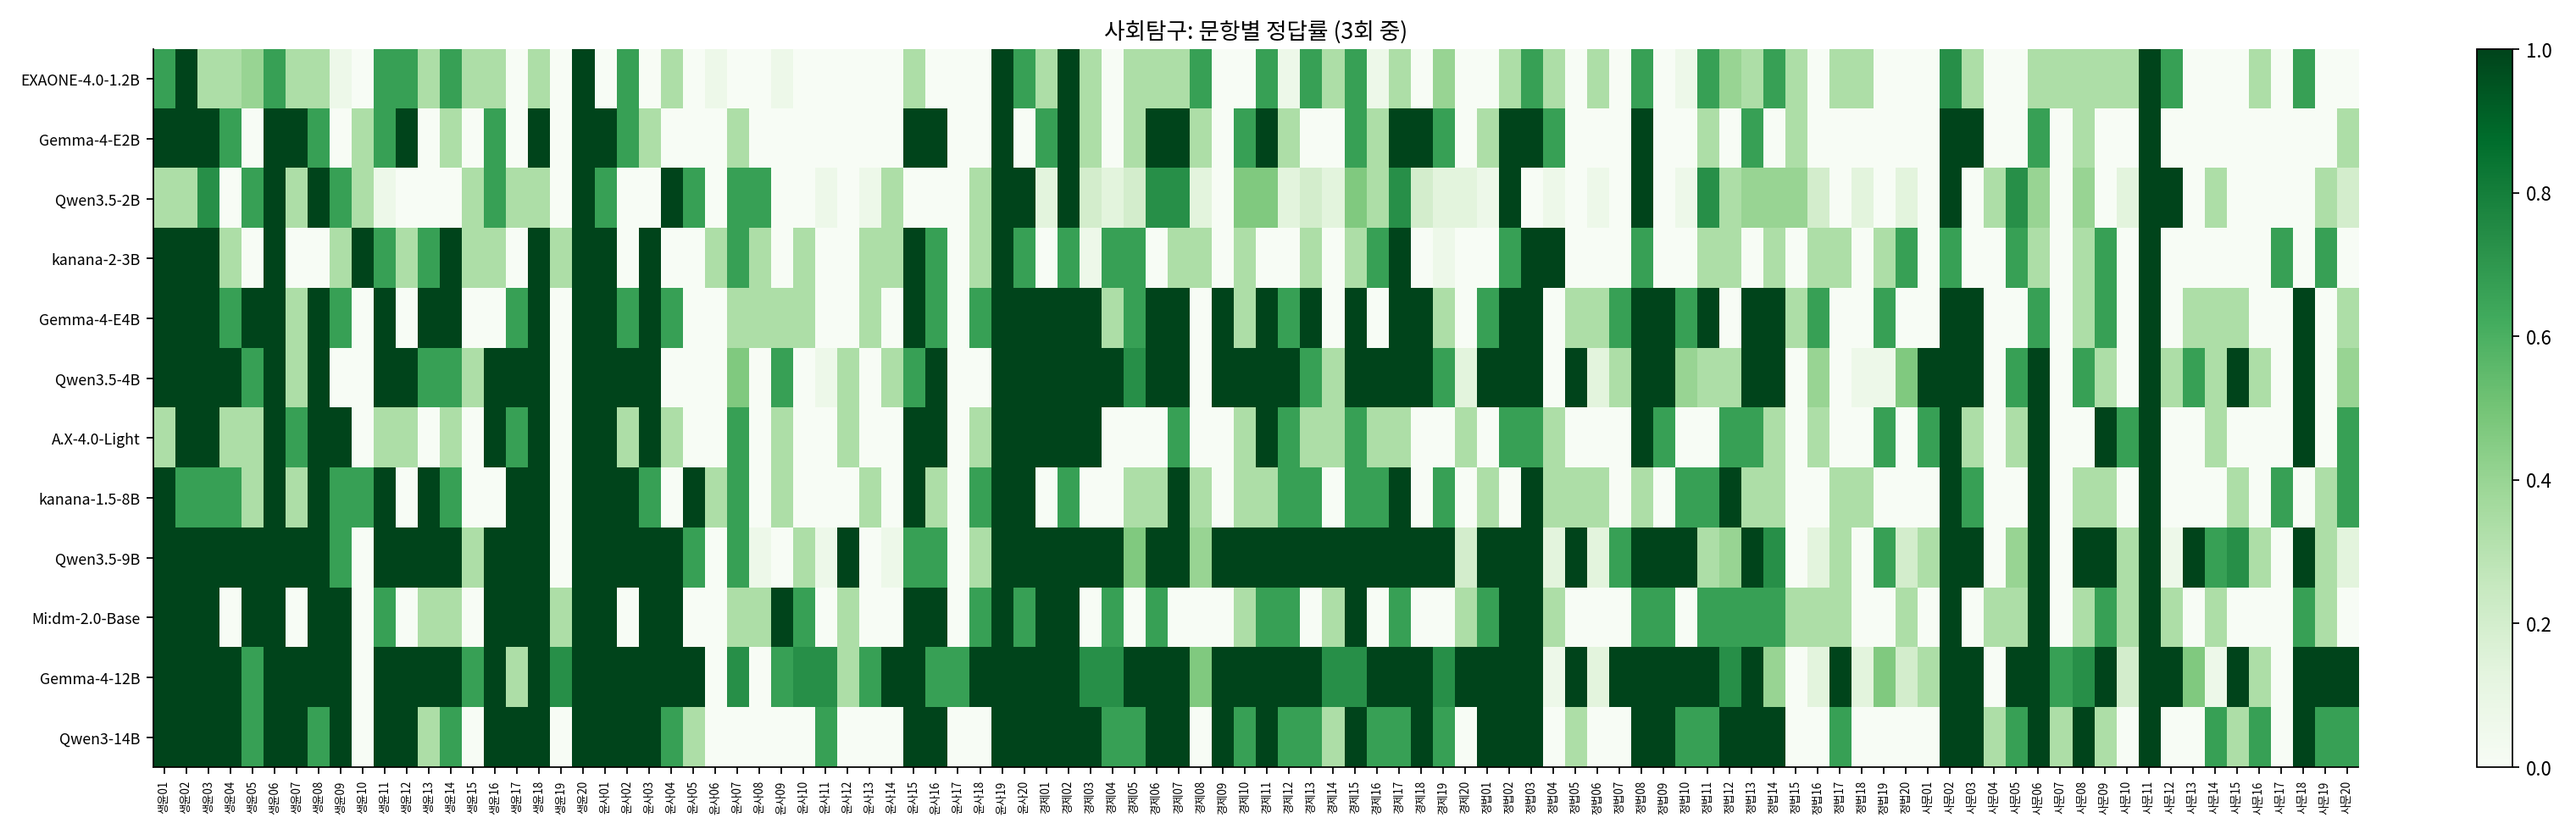
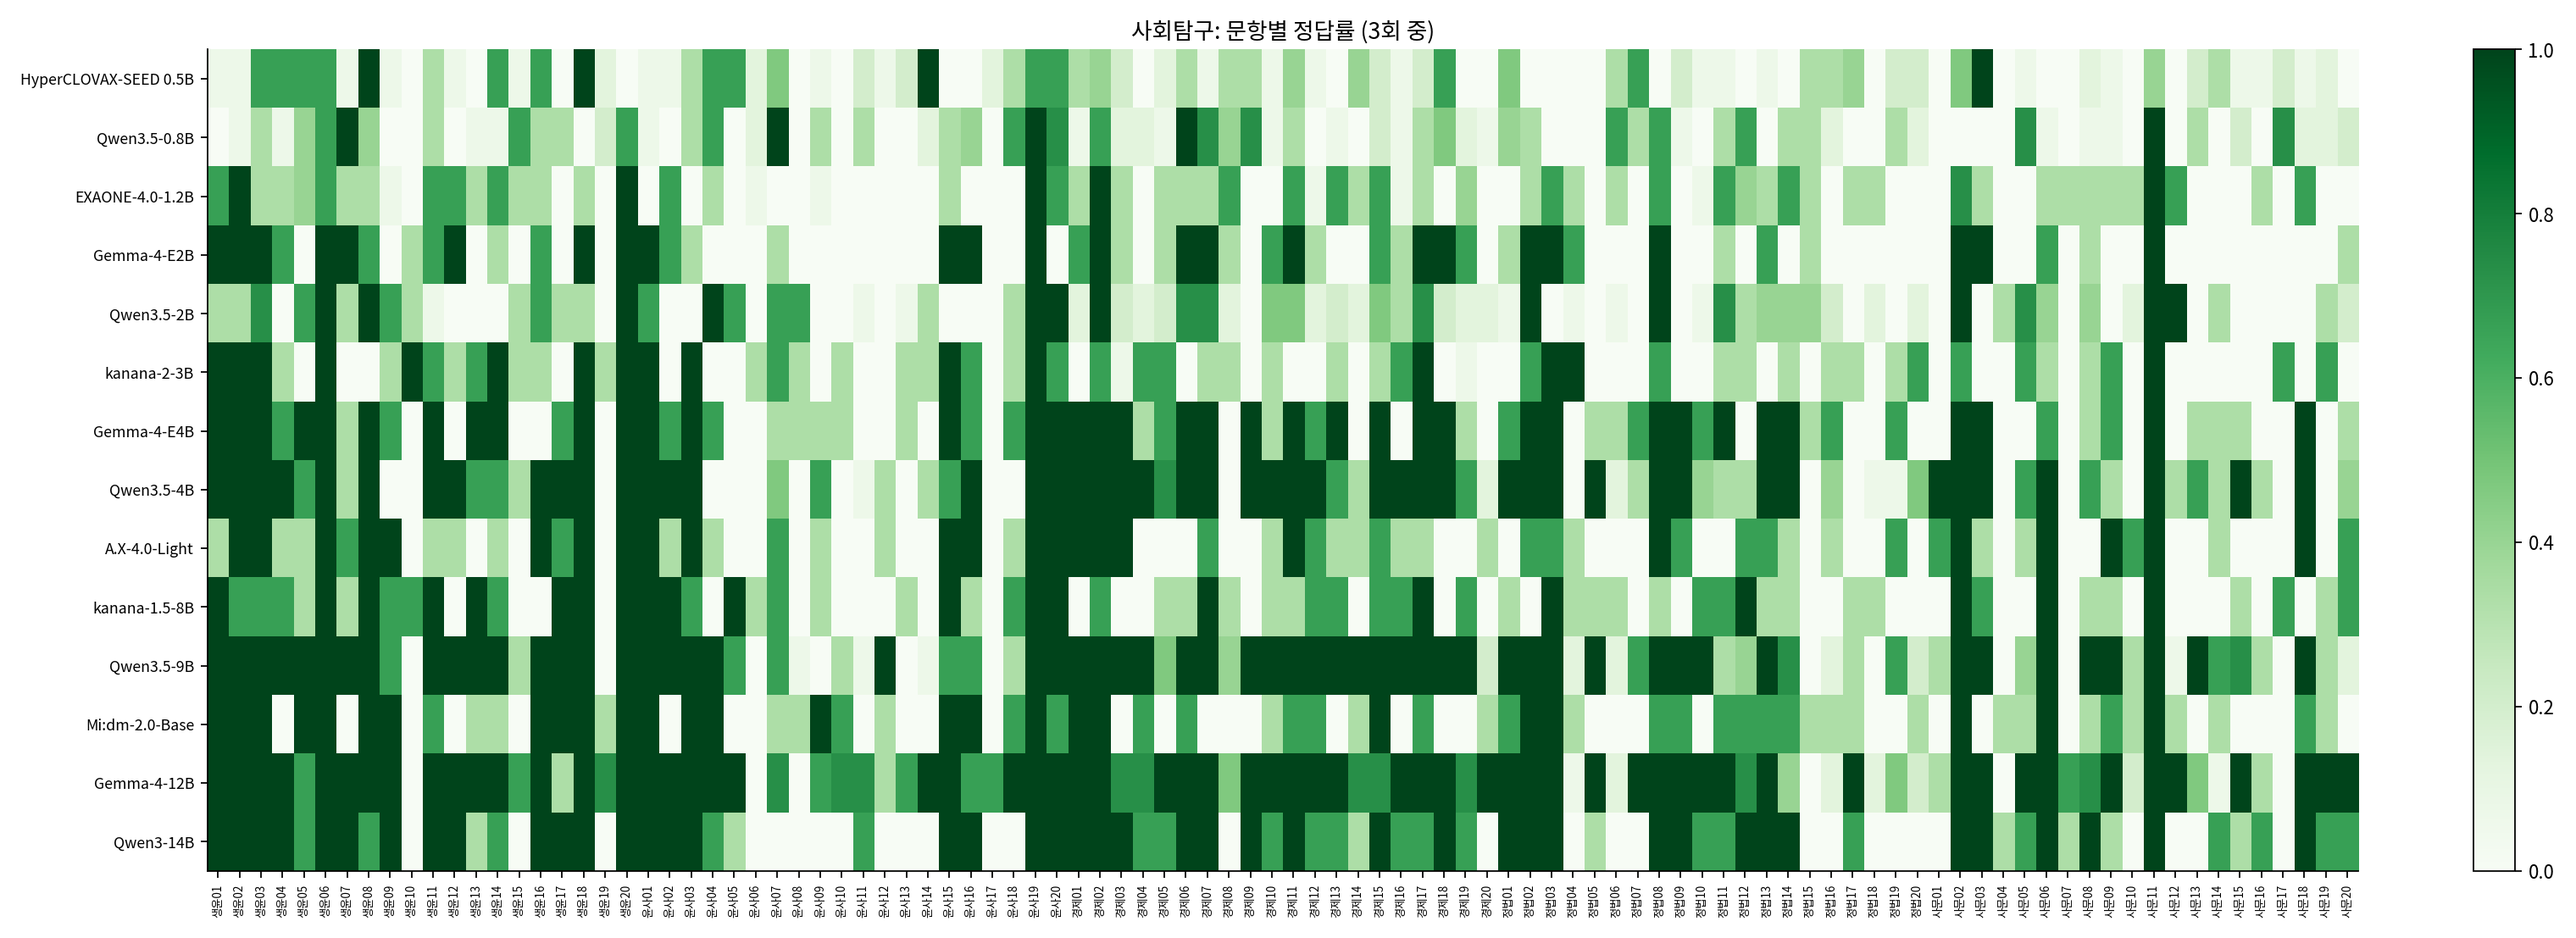
Update results (71 runs)

diff --git a/README.md b/README.md
@@ -1,6 +1,6 @@
 # 📱 폰 속 AI가 2027 수능을 풀었다
 
-**인터넷 없이 스마트폰·노트북에서 돌아가는 공개 AI 모델 14개에게 2026년 11월 19일 시험 당일 공개된 2027학년도 수능 문제를 풀게 하고 평가원 정답으로 채점했다.**
+**인터넷 없이 스마트폰·노트북에서 돌아가는 공개 AI 모델 15개에게 2026년 11월 19일 시험 당일 공개된 2027학년도 수능 문제를 풀게 하고 평가원 정답으로 채점했다.**
 
 ![기기 등급별 최고 점수](figures/hero.png)
 
@@ -13,9 +13,9 @@
 - **수학**은 작은 모델도 잘 푼다. 4B 크기의 Gemma-4-E4B가 80점을 넘었다.
 - 시험지 맨 끝의 4점 단답형 고난도 문항(공통 21·22번, 선택 29·30번)은 모델 평균 정답률이 22%, 가장 잘 푼 모델도 67%에 그쳤다.
 - **국어가 수학보다 어렵다.** 2B 이상 모델 기준으로 국어 정답률이 수학보다 평균 12%p 낮다. 2,000–4,000자 길이의 지문을 읽고 선택지 사이의 미묘한 차이를 가려내는 일이 작은 모델에게는 계산보다 어렵다.
-- **국산 모델**: HyperCLOVAX-SEED 0.5B(국어 18점, 수학 19점, 영어 28점), EXAONE-4.0-1.2B(국어 31점, 수학 75점, 영어 63점, 한국사 15점), kanana-2-3B(국어 34점, 수학 39점, 영어 74점, 한국사 33점), A.X-4.0-Light(국어 49점, 수학 56점, 영어 83점, 한국사 32점), kanana-1.5-8B(국어 45점, 수학 42점, 영어 83점, 한국사 41점), Mi:dm-2.0-Base(국어 44점, 수학 54점, 영어 82점, 한국사 46점).
+- **국산 모델**: HyperCLOVAX-SEED 0.5B(국어 18점, 수학 19점, 영어 28점, 한국사 12점), EXAONE-4.0-1.2B(국어 31점, 수학 75점, 영어 63점, 한국사 15점), kanana-2-3B(국어 34점, 수학 39점, 영어 74점, 한국사 33점), A.X-4.0-Light(국어 49점, 수학 56점, 영어 83점, 한국사 32점), kanana-1.5-8B(국어 45점, 수학 42점, 영어 83점, 한국사 41점), Mi:dm-2.0-Base(국어 44점, 수학 54점, 영어 82점, 한국사 46점), HyperCLOVAX-SEED-Think-14B(국어 78점).
 
-> 마지막 업데이트: 2026-11-20 10:01 KST. 평가가 진행되는 동안 모델 하나가 끝날 때마다 이 페이지가 자동으로 갱신된다.
+> 마지막 업데이트: 2026-11-20 10:05 KST. 평가가 진행되는 동안 모델 하나가 끝날 때마다 이 페이지가 자동으로 갱신된다.
 
 ## 왜 소형 모델인가
 
@@ -34,7 +34,7 @@
 | 보급형 스마트폰 | RAM 4–6GB | ≤1.5GB | HyperCLOVAX-SEED 0.5B, Qwen3.5-0.8B, EXAONE-4.0-1.2B, Qwen3.5-2B | 38 / 78 / 80 / 15 |
 | 중급 스마트폰 | RAM 8GB | 1.5–3.2GB | Gemma-4-E2B, kanana-2-3B, Gemma-4-E4B, Qwen3.5-4B | 77 / 90 / 93 / 37 |
 | 플래그십 스마트폰 | RAM 12–16GB | 3.2–6GB | A.X-4.0-Light, kanana-1.5-8B, Qwen3.5-9B | 88 / 93 / 91 / 41 |
-| 노트북·태블릿 | RAM 16GB 이상 | 6GB 이상 | Mi:dm-2.0-Base, Gemma-4-12B, Qwen3-14B | 92 / 93 / 94 / 46 |
+| 노트북·태블릿 | RAM 16GB 이상 | 6GB 이상 | Mi:dm-2.0-Base, Gemma-4-12B, HyperCLOVAX-SEED-Think-14B, Qwen3-14B | 92 / 93 / 94 / 46 |
 
 <sub>주의: 이 표는 메모리 기준 추정치다. 이번 평가는 압축하지 않은 원래 정밀도로 진행했으므로, 기기에서 4비트로 돌리면 점수가 조금 낮아질 수 있다. 또 스마트폰의 생성 속도는 초당 수~수십 토큰 수준이라, 추론 모드 모델이 한 문항에 수천~1만 토큰을 쓰면 문항당 수 분이 걸린다. 정해진 시험 시간 안에 실제로 풀 수 있는지는 속도까지 함께 봐야 한다.</sub>
 
@@ -70,10 +70,6 @@
 
 ![가장 어려운 15문항](figures/hardest_items.png)
 
-**모든 모델이 3회 모두 틀린 문항**: `math-calc-30`, `math-common-21`
-
-**모든 모델이 3회 모두 맞힌 문항**: `eng-all-20`, `eng-all-24`
-
 ## 문항 해설
 
 대표 문항 몇 개를 골라 모델별 풀이 과정을 구체적으로 분석했다: [docs/examples.md](docs/examples.md)
@@ -88,8 +84,8 @@
 
 | 모델 | 개발사 | 매개변수(B) | 실행 가능 기기 | 국어(화작) | 국어(언매) | 수학(확통) | 수학(미적) | 수학(기하) | 영어 | 한국사 <sub>(50점)</sub> | 생활과 윤리 <sub>(50점)</sub> | 윤리와 사상 <sub>(50점)</sub> | 경제 <sub>(50점)</sub> | 정치와 법 <sub>(50점)</sub> | 사회·문화 <sub>(50점)</sub> |
 |---|---|---|---|---|---|---|---|---|---|---|---|---|---|---|---|
-| HyperCLOVAX-SEED 0.5B | 네이버 | 0.57 | 보급형 스마트폰 | 18.0 <sub>(13–25)</sub> | 18.0 <sub>(16–19)</sub> | 17.5 <sub>(14–21)</sub> | 21.3 <sub>(17–24)</sub> | 18.0 <sub>(15–21)</sub> | 28.1 <sub>(25–30)</sub> | — | — | — | — | — | — |
-| Qwen3.5-0.8B | 알리바바 | 0.8 | 보급형 스마트폰 | 24.4 <sub>(18–32)</sub> | 22.9 <sub>(20–28)</sub> | 36.5 <sub>(35–39)</sub> | 36.3 <sub>(33–39)</sub> | 33.5 <sub>(31–36)</sub> | 57.0 <sub>(53–62)</sub> | 13.3 <sub>(10–19)</sub> | — | — | — | — | — |
+| HyperCLOVAX-SEED 0.5B | 네이버 | 0.57 | 보급형 스마트폰 | 18.0 <sub>(13–25)</sub> | 18.0 <sub>(16–19)</sub> | 17.5 <sub>(14–21)</sub> | 21.3 <sub>(17–24)</sub> | 18.0 <sub>(15–21)</sub> | 28.1 <sub>(25–30)</sub> | 11.9 <sub>(8–16)</sub> | 17.5 <sub>(13–20)</sub> | 14.7 <sub>(12–19)</sub> | 10.4 <sub>(6–17)</sub> | 7.8 <sub>(6–11)</sub> | 7.8 <sub>(7–8)</sub> |
+| Qwen3.5-0.8B | 알리바바 | 0.8 | 보급형 스마트폰 | 24.4 <sub>(18–32)</sub> | 22.9 <sub>(20–28)</sub> | 36.5 <sub>(35–39)</sub> | 36.3 <sub>(33–39)</sub> | 33.5 <sub>(31–36)</sub> | 57.0 <sub>(53–62)</sub> | 13.3 <sub>(10–19)</sub> | 14.7 <sub>(9–21)</sub> | 15.7 <sub>(12–19)</sub> | 13.2 <sub>(9–16)</sub> | 12.1 <sub>(7–16)</sub> | 9.3 <sub>(7–11)</sub> |
 | EXAONE-4.0-1.2B | LG AI연구원 | 1.28 | 보급형 스마트폰 | 31.2 <sub>(28–35)</sub> | 31.5 <sub>(27–35)</sub> | 77.6 <sub>(70–82)</sub> | 72.9 <sub>(63–82)</sub> | 73.5 <sub>(71–78)</sub> | 62.7 <sub>(61–64)</sub> | 15.0 <sub>(13–18)</sub> | 19.9 <sub>(11–28)</sub> | 7.3 <sub>(3–10)</sub> | 15.1 <sub>(14–17)</sub> | 13.7 <sub>(7–21)</sub> | 13.5 <sub>(12–16)</sub> |
 | Gemma-4-E2B | 구글 | 2.0 | 중급 스마트폰 | 67.9 <sub>(64–71)</sub> | 61.2 <sub>(59–63)</sub> | 75.0 <sub>(72–80)</sub> | 73.0 <sub>(69–77)</sub> | 76.3 <sub>(76–77)</sub> | 79.9 <sub>(78–83)</sub> | 12.3 <sub>(10–14)</sub> | 28.3 <sub>(22–33)</sub> | 12.3 <sub>(9–14)</sub> | 24.0 <sub>(21–27)</sub> | 12.7 <sub>(12–14)</sub> | 10.0 <sub>(9–12)</sub> |
 | Qwen3.5-2B | 알리바바 | 2.0 | 보급형 스마트폰 | 33.6 <sub>(31–36)</sub> | 37.7 <sub>(34–42)</sub> | 64.7 <sub>(63–66)</sub> | 59.9 <sub>(56–65)</sub> | 62.1 <sub>(61–63)</sub> | 79.7 <sub>(78–81)</sub> | 11.7 <sub>(10–14)</sub> | 20.3 <sub>(17–23)</sub> | 15.7 <sub>(14–17)</sub> | 15.1 <sub>(14–17)</sub> | 12.9 <sub>(10–15)</sub> | 15.5 <sub>(12–18)</sub> |
@@ -101,6 +97,7 @@
 | Qwen3.5-9B | 알리바바 | 9.0 | 플래그십 스마트폰 | 87.7 <sub>(87–88)</sub> | 79.0 <sub>(76–81)</sub> | 90.4 <sub>(89–93)</sub> | 86.7 <sub>(82–92)</sub> | 92.8 <sub>(90–96)</sub> | 90.9 <sub>(89–93)</sub> | 28.6 <sub>(25–33)</sub> | 42.3 <sub>(40–45)</sub> | 25.8 <sub>(21–33)</sub> | 45.3 <sub>(44–48)</sub> | 28.5 <sub>(24–36)</sub> | 28.5 <sub>(25–34)</sub> |
 | Mi:dm-2.0-Base | KT | 11.5 | 노트북·태블릿 | 47.3 <sub>(46–50)</sub> | 41.0 <sub>(37–45)</sub> | 55.3 <sub>(55–56)</sub> | 50.3 <sub>(47–55)</sub> | 54.9 <sub>(51–59)</sub> | 82.3 <sub>(79–87)</sub> | 45.7 <sub>(41–48)</sub> | 30.7 <sub>(29–34)</sub> | 23.3 <sub>(21–25)</sub> | 17.3 <sub>(14–19)</sub> | 21.3 <sub>(17–28)</sub> | 17.3 <sub>(12–24)</sub> |
 | Gemma-4-12B | 구글 | 12.0 | 노트북·태블릿 | 91.7 <sub>(88–95)</sub> | 86.2 <sub>(78–93)</sub> | 88.5 <sub>(86–90)</sub> | 81.6 <sub>(82–82)</sub> | 88.5 <sub>(86–90)</sub> | 94.3 <sub>(91–96)</sub> | 39.2 <sub>(35–43)</sub> | 42.8 <sub>(39–47)</sub> | 37.5 <sub>(35–41)</sub> | 45.2 <sub>(40–50)</sub> | 32.2 <sub>(31–34)</sub> | 34.4 <sub>(32–37)</sub> |
+| HyperCLOVAX-SEED-Think-14B | 네이버 | 14.7 | 노트북·태블릿 | 80.3 <sub>(78–83)</sub> | 74.7 <sub>(72–77)</sub> | — | — | — | — | — | — | — | — | — | — |
 | Qwen3-14B | 알리바바 | 14.8 | 노트북·태블릿 | 72.0 <sub>(68–77)</sub> | 64.7 <sub>(64–66)</sub> | 91.7 <sub>(90–96)</sub> | 87.2 <sub>(85–89)</sub> | 92.8 <sub>(93–93)</sub> | 90.3 <sub>(89–93)</sub> | 24.0 <sub>(22–25)</sub> | 38.0 <sub>(35–40)</sub> | 20.3 <sub>(16–24)</sub> | 36.3 <sub>(30–40)</sub> | 25.7 <sub>(23–27)</sub> | 26.7 <sub>(18–36)</sub> |
 
 **국어·수학·영어 원점수**
@@ -160,8 +157,8 @@
 
 | 모델 | 국어 정제 후 / 형식 엄수 / 형식 위반 / 잘림 / 평균 토큰 | 수학 정제 후 / 형식 엄수 / 형식 위반 / 잘림 / 평균 토큰 | 영어 정제 후 / 형식 엄수 / 형식 위반 / 잘림 / 평균 토큰 | 한국사 정제 후 / 형식 엄수 / 형식 위반 / 잘림 / 평균 토큰 | 사회탐구 정제 후 / 형식 엄수 / 형식 위반 / 잘림 / 평균 토큰 |
 |---|---|---|---|---|---|
-| HyperCLOVAX-SEED 0.5B | 0.18 / 0.09 / 0.50 / 0.10 / 946 | 0.20 / 0.10 / 0.59 / 0.09 / 1165 | 0.30 / 0.23 / 0.41 / 0.10 / 1116 | — | — |
-| Qwen3.5-0.8B | 0.23 / 0.14 / 0.46 / 0.46 / 12622 | 0.37 / 0.28 / 0.59 / 0.54 / 13733 | 0.58 / 0.54 / 0.18 / 0.18 / 9809 | 0.25 / 0.22 / 0.18 / 0.20 / 9089 | — |
+| HyperCLOVAX-SEED 0.5B | 0.18 / 0.09 / 0.50 / 0.10 / 946 | 0.20 / 0.10 / 0.59 / 0.09 / 1165 | 0.30 / 0.23 / 0.41 / 0.10 / 1116 | 0.26 / 0.22 / 0.22 / 0.00 / 293 | 0.23 / 0.18 / 0.25 / 0.02 / 411 |
+| Qwen3.5-0.8B | 0.23 / 0.14 / 0.46 / 0.46 / 12622 | 0.37 / 0.28 / 0.59 / 0.54 / 13733 | 0.58 / 0.54 / 0.18 / 0.18 / 9809 | 0.25 / 0.22 / 0.18 / 0.20 / 9089 | 0.26 / 0.22 / 0.19 / 0.19 / 10451 |
 | EXAONE-4.0-1.2B | 0.30 / 0.29 / 0.04 / 0.01 / 1520 | 0.72 / 0.70 / 0.18 / 0.14 / 6924 | 0.64 / 0.61 / 0.06 / 0.00 / 1123 | 0.29 / 0.27 / 0.13 / 0.03 / 1631 | 0.29 / 0.28 / 0.03 / 0.01 / 2341 |
 | Gemma-4-E2B | 0.59 / 0.58 / 0.00 / 0.00 / 1897 | 0.71 / 0.71 / 0.00 / 0.00 / 3471 | 0.81 / 0.81 / 0.00 / 0.00 / 1278 | 0.25 / 0.25 / 0.00 / 0.00 / 1140 | 0.37 / 0.37 / 0.00 / 0.00 / 1870 |
 | Qwen3.5-2B | 0.34 / 0.29 / 0.23 / 0.25 / 12221 | 0.63 / 0.59 / 0.37 / 0.37 / 10424 | 0.81 / 0.81 / 0.04 / 0.05 / 7274 | 0.24 / 0.18 / 0.27 / 0.27 / 10510 | 0.32 / 0.28 / 0.21 / 0.21 / 10868 |
@@ -173,6 +170,7 @@
 | Qwen3.5-9B | 0.80 / 0.79 / 0.07 / 0.07 / 7616 | 0.90 / 0.89 / 0.11 / 0.11 / 7024 | 0.91 / 0.91 / 0.01 / 0.01 / 3250 | 0.57 / 0.57 / 0.03 / 0.03 / 8780 | 0.69 / 0.67 / 0.08 / 0.09 / 8504 |
 | Mi:dm-2.0-Base | 0.45 / 0.45 / 0.00 / 0.00 / 361 | 0.55 / 0.54 / 0.01 / 0.01 / 851 | 0.84 / 0.84 / 0.00 / 0.00 / 251 | 0.90 / 0.90 / 0.00 / 0.00 / 265 | 0.45 / 0.45 / 0.00 / 0.00 / 371 |
 | Gemma-4-12B | 0.86 / 0.86 / 0.05 / 0.05 / 5240 | 0.89 / 0.88 / 0.12 / 0.12 / 6271 | 0.94 / 0.94 / 0.00 / 0.00 / 1211 | 0.79 / 0.78 / 0.02 / 0.02 / 3103 | 0.78 / 0.76 / 0.11 / 0.11 / 6245 |
+| HyperCLOVAX-SEED-Think-14B | 0.73 / 0.73 / 0.00 / 0.00 / 5140 | — | — | — | — |
 | Qwen3-14B | 0.62 / 0.62 / 0.00 / 0.00 / 1395 | 0.91 / 0.90 / 0.10 / 0.09 / 4721 | 0.91 / 0.91 / 0.00 / 0.00 / 635 | 0.48 / 0.48 / 0.00 / 0.00 / 1561 | 0.60 / 0.60 / 0.00 / 0.00 / 3066 |
 
 ## 평가 방법
